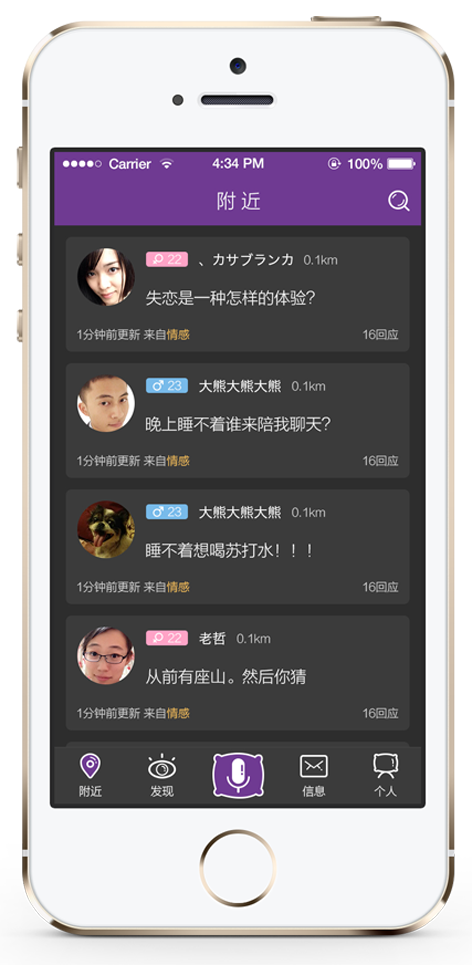
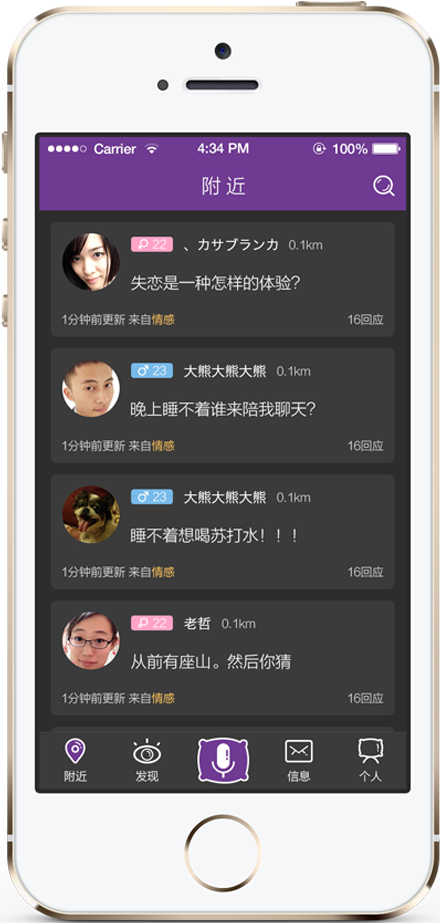
first animate

diff --git a/index.html b/index.html
@@ -14,30 +14,79 @@
 		
 		<script type="text/javascript">
 			$(document).ready(function() {
+				
+				var p1 = new Image();
+				p1.src = "img/phone1.png";
+				var p2 = new Image();
+				p2.src = "img/phone2.png";
+				
+				if($("html").width()>1800){
+					$(".container").addClass("w1800");
+				};
+				
 			    $('#fullpage').fullpage({
 			    	navigation:true,
 			    	verticalCentered:false,
 			    	scrollOverflow:true,
-			    	anchors:['firstPage', 'secondPage', 'thirdPage','fourthPage']
+			    	anchors:['firstPage', 'secondPage', 'thirdPage','fourthPage'],
+			    	afterLoad:function(){
+			       					       		
+			       		$(".phone1").css("top",$(".phones").height()-$(".phone1").height()/2.0+"px");
+			       		$(".phone2").css("top",$(".phones").height()-$(".phone2").height()/2.0+"px");
+			       		
+			       		$(".phone1").animate({
+			       			opacity: 0.9,
+						    top: "-="+(923.0/2-135.0)*$(".phone1").height()/p1.height+"px"
+			       		},2000,function(){
+			       		});
+			       		
+			       		$(".phone2").animate({
+			       			opacity: 0.9,
+						    top: "-="+(923.0/2-135.0)*$(".phone2").height()/p2.height+"px"
+			       		},2000,function(){
+			       		});
+			       		
+			       	},
+			    	afterRender: function(){
+			    		
+			            var pluginContainer = $(this);
+			            //alert("The resulting DOM structure is ready");
+			           
+								            
+			       	},
+			       	onLeave:function(index, nextIndex, direction){
+			       		$(".phone1").stop();
+			       		$(".phone2").stop();
+			       		if(index != 1){
+			       			$(".phone1").css("top",$(".phones").height()-$(".phone1").height()/2.0+"px");
+			       			$(".phone2").css("top",$(".phones").height()-$(".phone2").height()/2.0+"px");
+			       		}
+			       	}
+			       	
 			    });
 			});
 		</script>
 		
 	</head>
 	<body class="pcindex">
-	<div class="container">
+	
 		<div id="fullpage">
 		    <div class="first section">
+		    <div class="container">
 		    	<div class="phonesblock">
 		    		<div class="phones">
-			    		<div class="phone1"><img src="img/phone1.png" alt="" /></div>
-			    		<div class="phone2"><img src="img/phone2.png" alt="" /></div>
+			    		<img src="img/phone1.png" alt="" class="phone1" />
+			    		<img src="img/phone2.png" alt="" class="phone2" />
 		    		</div>
 		    	</div>
-		    	<div class="downblock"><img src="img/down.png" alt="" /></div>
+		    	<div class="downblock">
+		    		<img src="img/down.png" alt="" class="down" />
+		    	</div>
 		    	<div class="star">星星</div>
 		    </div>
+		    </div>
 		    <div class="second section">
+		    <div class="container">
 		    	<div class="hablock">
 			    	<div class="help">帮帮我吧</div>
 			    	<div class="answer">回答</div>
@@ -45,12 +94,16 @@
 		    	<div class="yewen">夜问</div>
 		    	<div class="ball">球球</div>
 		    </div>
+		    </div>
 		    <div class="third section">
+		    <div class="container">
 		    	<div class="goodnight">晚安</div>
 		    	<div class="yehua">夜话</div>
 		    	<div class="smile">笑脸</div>
 		    </div>
+		    </div>
 		    <div class="fourth section">
+		    <div class="container">
 		    	<div class="connection">联系</div>
 		    	<div class="fujin">附近</div>
 		    	<div class="loc">loc图标</div>
@@ -58,8 +111,8 @@
 		    	关于我们
 		    	</div>
 		    </div>
+		    </div>
 		    
 		</div>
-	</div>
 	</body>
 </html>

diff --git a/css/bedtime.less b/css/bedtime.less
@@ -1,30 +1,56 @@
+.w1800{
+    margin:0 auto;
+    width:1800px;
+    height: 100%;
+}
+.container{
+    width: 100%;
+    height: 100%;
+}
+
 .pcindex{
     .first{
         background-color: #6a3589;
         .phonesblock{
             width:50%;
             height: 80%;
-            background-color: #fff;
+            background-color: inherit;
+            background-color: transparent;
             float: left;
             position: absolute;
             bottom: 0;
             .phones{
-                width:100%;
+                width:80%;
                 height: 100%;
+                margin: 0 auto;
                 .phone1,.phone2{
+                    opacity: 1;
                     width: 50%;
-                    height: 100%;
+                    //position: absolute;
+                   // bottom: 0;
+                }
+                .phone1{
                     float: left;
+                    position: relative;
+                }
+                .phone2{
+                    float: right;
+                    position: relative;
                 }
                 
             }
         }
         .downblock{
-            width: 50%;
+            width: 40%;
             height: 100%;
             float: right;
             background-color: inherit;
             background-color: transparent;
+            .down{
+                margin-top: 10%;
+                max-width: 544px;
+                width: 80%;
+            }
         }
         .star{
             width: 200px;
